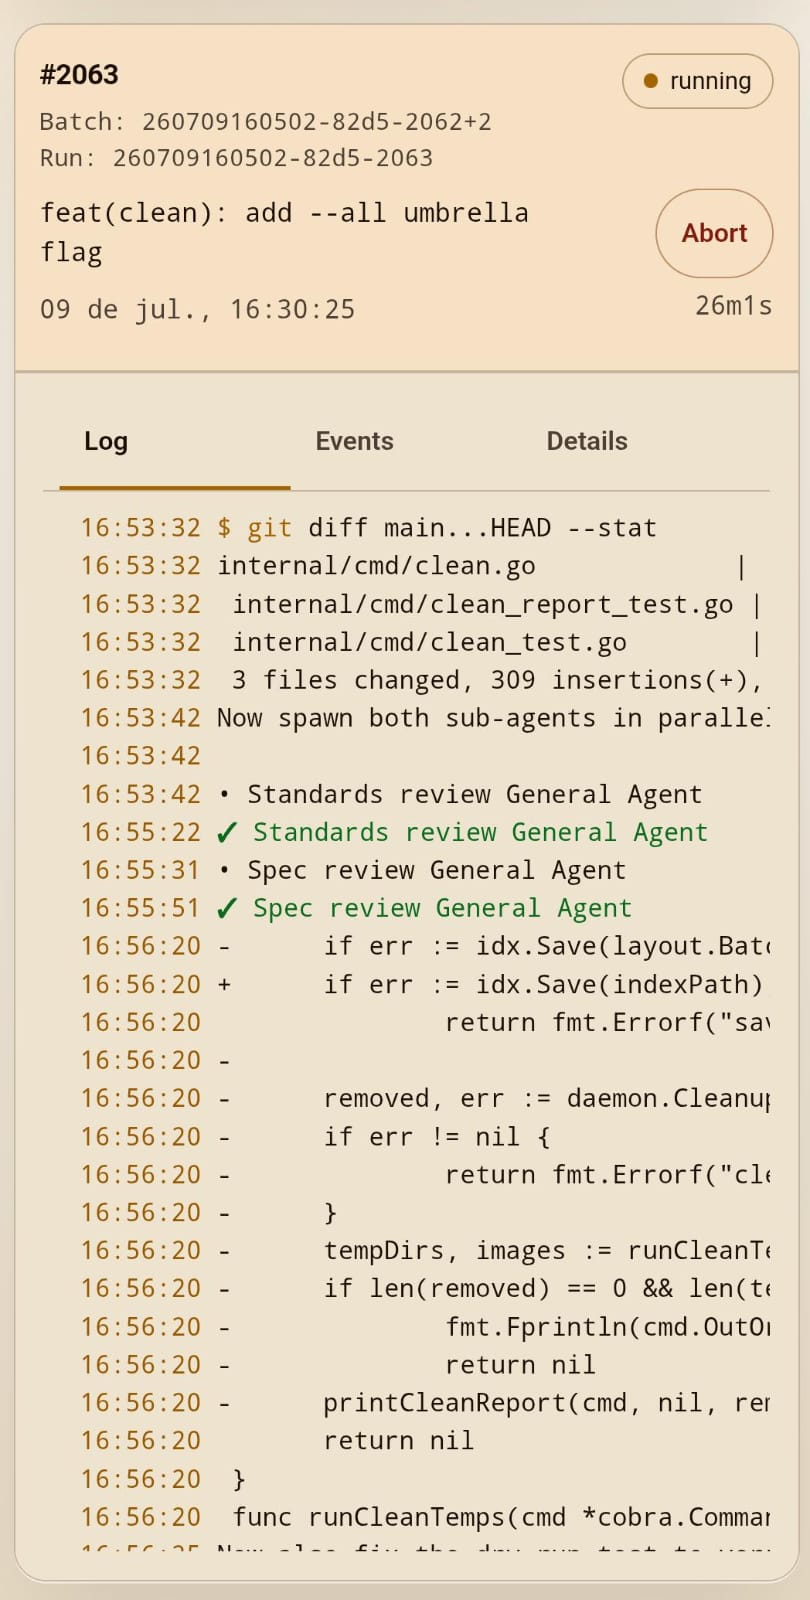
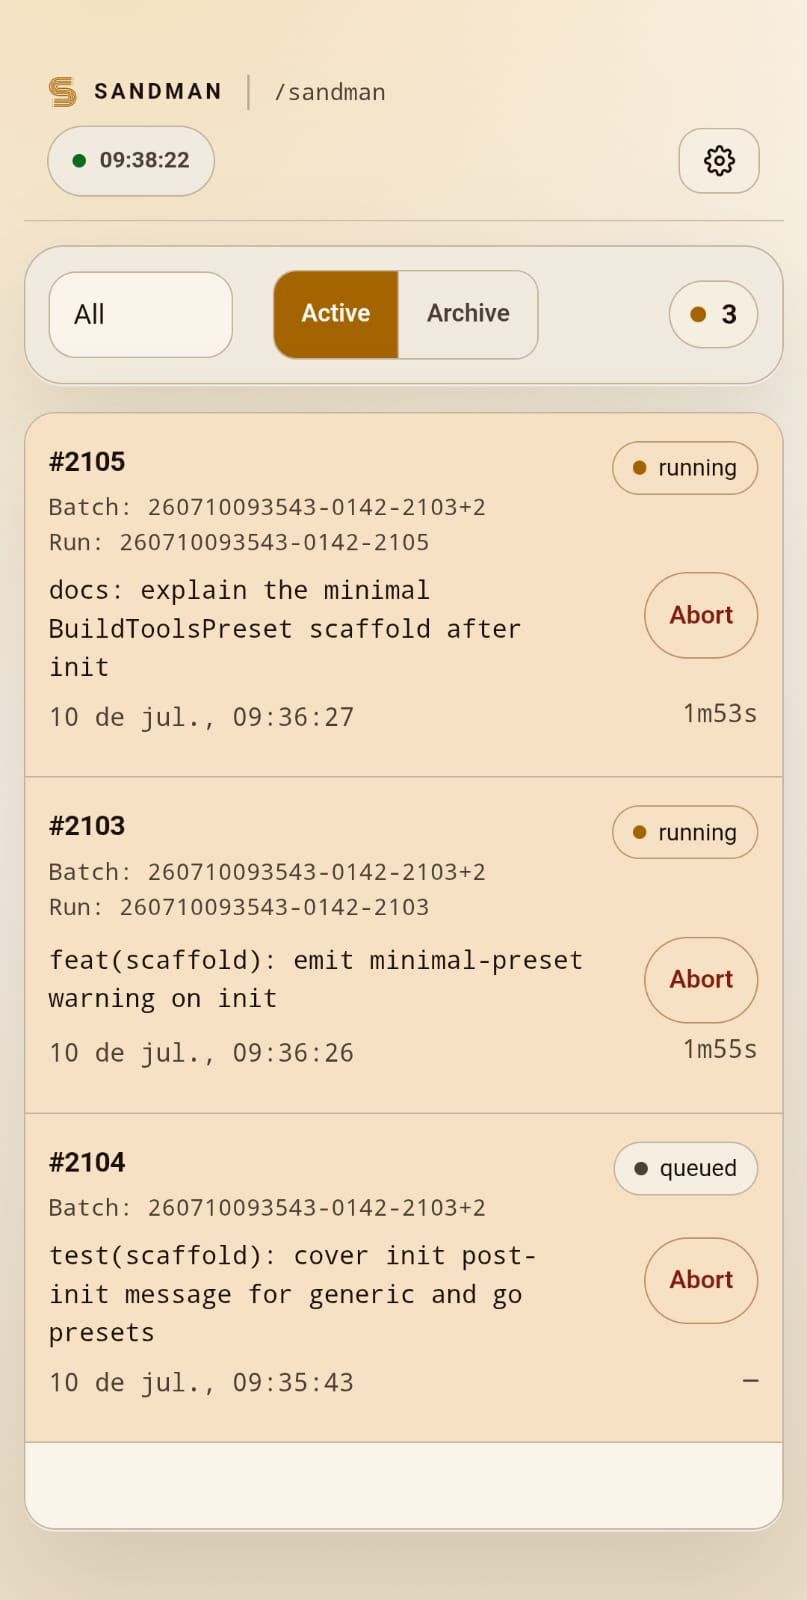
docs(landing): refresh CLI block and portal screenshot; drop png duplicate
- Replace the styled CLI pre block in docs/index.html with a current
  snapshot of ./sandman run 2102 showing expanded PRD, build steps,
  skill loads, and a gh issue view jq query (issue #2103).
- Refresh docs/assets/portal-screenshot-light.jpeg to the latest
  Portal capture.
- Remove the unused docs/assets/portal-screenshot-light.png duplicate.
- Fix docs/documentation.js: fetchTree() now returns filtered files
  in both 200 and 304 branches so the first-load sidebar never
  shows adr/ entries before the cached tree filters them out.
  Bumped cache-buster to v=4.

Changed region(s): [[0.031, 0.0, 0.9913, 0.9688]]

diff --git a/docs/index.html b/docs/index.html
@@ -271,6 +271,9 @@
       .cli-shot .cmd { color: var(--night-text); }
       .cli-shot .ok { color: oklch(74% 0.14 152); }
       .cli-shot .dim { color: var(--night-muted); }
+      .cli-shot .arrow { color: oklch(78% 0.14 195); }
+      .cli-shot .shell { color: oklch(74% 0.18 350); font-weight: 800; }
+      .cli-shot .json { color: var(--night-muted); }
 
       .cli-reasons {
         display: grid;
@@ -511,28 +514,21 @@
 
               <div class="cli-shot" aria-label="Sandman CLI screenshot">
                 <span class="cli-scrollbar" aria-hidden="true"></span>
-                <pre><span class="branch">sandman main ?</span> <span class="prompt">❯</span> <span class="cmd">./sandman run 2042:</span>
-[260708175122-5395-2042] 17:51:39
-[260708175122-5395-2042] 17:51:39 &gt; build · MiniMax-M3
-[260708175122-5395-2042] 17:51:39
-[260708175122-5395-2045] 17:51:39
-[260708175122-5395-2045] 17:51:39 &gt; build · MiniMax-M3
-[260708175122-5395-2045] 17:51:39
-[260708175122-5395-2045] 17:51:40
-[260708175122-5395-2043] 17:51:40 &gt; build · MiniMax-M3
-[260708175122-5395-2043] 17:51:40
-[260708175122-5395-2045] 17:51:42 I'll start by loading the sandman skill and following the mandatory execution contract.
-[260708175122-5395-2045] 17:51:42
-[260708175122-5395-2045] 17:51:42 → Skill "sandman"
-[260708175122-5395-2042] 17:51:42 I'll start by loading the sandman skill and checking the current state of the worktree.
-[260708175122-5395-2042] 17:51:42</pre>
-              </div>
-
-              <div class="cli-reasons" aria-label="Why CLI-owned orchestration fits Sandman">
-                <div class="reason"><b>It stays repo-native.</b><span>The run starts where the code, branches, config, logs, and agent context already live.</span></div>
-                <div class="reason"><b>It is scriptable.</b><span>Teams can compose Sandman with shell scripts, CI, cron, hooks, and their existing release process.</span></div>
-                <div class="reason"><b>It keeps ownership local.</b><span>Sandman does not require the delivery loop to move into another SaaS control plane.</span></div>
-                <div class="reason"><b>It leaves receipts.</b><span><code>task.md</code>, events, logs, PRs, and review state remain inspectable after the agent stops.</span></div>
+                <pre><span class="branch">sandman main ?</span> <span class="prompt">❯</span> <span class="cmd">./sandman run 2102</span>
+expanded PRD #2102 to 3 accepted children
+<span class="dim">[260710093543-0142-2103] 09:36:34</span>
+<span class="dim">[260710093543-0142-2103] 09:36:34</span> <span class="arrow">→</span> build · MiniMax-M2.7
+<span class="dim">[260710093543-0142-2103] 09:36:34</span>
+<span class="dim">[260710093543-0142-2105] 09:36:35</span> <span class="arrow">→</span> build · MiniMax-M2.7
+<span class="dim">[260710093543-0142-2105] 09:36:35</span>
+<span class="dim">[260710093543-0142-2105] 09:36:39</span> <span class="arrow">→</span> Skill "sandman"
+<span class="dim">[260710093543-0142-2105] 09:36:40</span> <span class="arrow">→</span> Skill "sandman"
+<span class="dim">[260710093543-0142-2105] 09:36:40</span> <span class="arrow">→</span> Read .sandman/task.md
+<span class="dim">[260710093543-0142-2105] 09:36:42</span> <span class="arrow">→</span> Skill "sandman-implement"
+<span class="dim">[260710093543-0142-2103] 09:36:48</span> <span class="arrow">→</span> Read .sandman/task.md
+<span class="dim">[260710093543-0142-2103] 09:36:49</span>
+<span class="dim">[260710093543-0142-2103] 09:36:49</span> <span class="shell">$</span> <span class="cmd">gh issue view 2103 --json title,number,state,body --jq '{title, number, state, body}'</span>
+<span class="dim">[260710093543-0142-2103] 09:36:49</span> <span class="json">{"body":"### Parent\n\n#2102\n\n### What to build\n\nMake `sandman init` end with a single composed message on stdout that explains what the scaffold included and that the scaffolded Dockerfile is only a minimal BuildToolsPreset for the detected project type.\n\nThe message should:\n\n- name the resolved preset,\n- list the populated toolchain pins,\n- include the built-in agent install pin,\n- list the scaffolded files,\n- mention the shared Sandman skill folder path, and\n- tell the operator to review and extend .sandman/Dockerfile with the project-specific tools, runtimes, and system packages needed before starting work with Sandman.\n\nKeep the print seam at the scaffolder layer via a new output writer in scaffold options. The writer should default safety when unset so existing callers do not churn. The CLI should pass its stdout writer through to the scaffolder.</span></pre>
               </div>
             </div>
             <figure class="portal-figure">

diff --git a/docs/documentation.js b/docs/documentation.js
@@ -232,8 +232,9 @@
     if (resp.status === 304 && cached && cached.files) {
       cached.timestamp = Date.now();
       setCachedTree(cached);
-      emitFiles(cached.files);
-      return cached.files;
+      var cachedFiltered = filterFiles(cached.files);
+      emitFiles(cachedFiltered);
+      return cachedFiltered;
     }
     if (!resp.ok) throw new Error("API " + resp.status);
 
@@ -245,15 +246,16 @@
       sha: data.sha,
       files: files,
     });
-    emitFiles(files);
-    return files;
+    var filtered = filterFiles(files);
+    emitFiles(filtered);
+    return filtered;
   }
 
   async function discoverFiles() {
     var cached = getCachedTree();
 
     if (cached && Date.now() - cached.timestamp < CACHE_TTL_MS && cached.files) {
-      emitFiles(cached.files);
+      emitFiles(filterFiles(cached.files));
       fetchTree().catch(function () {});
       return filterFiles(cached.files);
     }
@@ -262,7 +264,7 @@
       return await fetchTree();
     } catch (e) {
       if (cached && cached.files) {
-        emitFiles(cached.files);
+        emitFiles(filterFiles(cached.files));
         return filterFiles(cached.files);
       }
       try { localStorage.removeItem(CACHE_KEY + ":ref"); } catch (err) {}

diff --git a/docs/documentation.html b/docs/documentation.html
@@ -45,6 +45,6 @@
       </main>
     </div>
 
-    <script src="documentation.js?v=3"></script>
+    <script src="documentation.js?v=4"></script>
   </body>
 </html>

diff --git a/docs/usage/skills.md b/docs/usage/skills.md
@@ -17,6 +17,10 @@ The installed folder mirrors the local Sandman skill and includes routed subskil
 
 `docs/usage/default-task-prompt.md` now acts as a bootstrap that passes issue context, branch context, and the configured review command into the installed `sandman` skill.
 
+## Using the skills directly
+
+You can also load `sandman-implement` and `sandman-pr-review` directly in OpenCode when you want an interactive Sandman-guided session instead of a fully AFK `sandman run`. That gives you the same Sandman workflow and guardrails, but with a conversational loop where you can inspect progress, answer questions, and steer the work in real time.
+
 ## Container access
 
 Sandman mounts `~/.agents` into built-in agent containers so the shared skill is visible in container-backed runs.